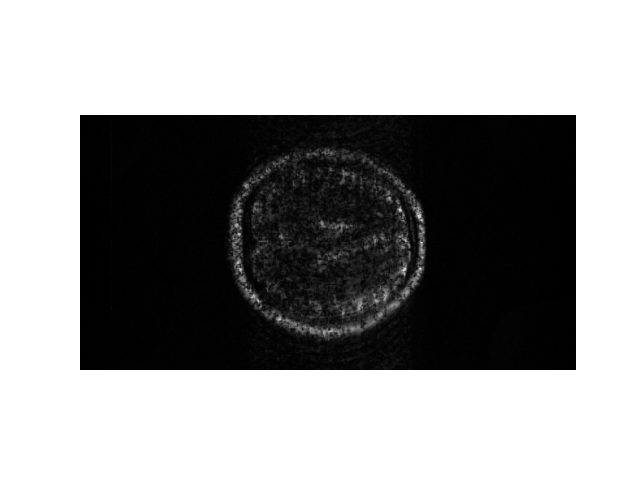
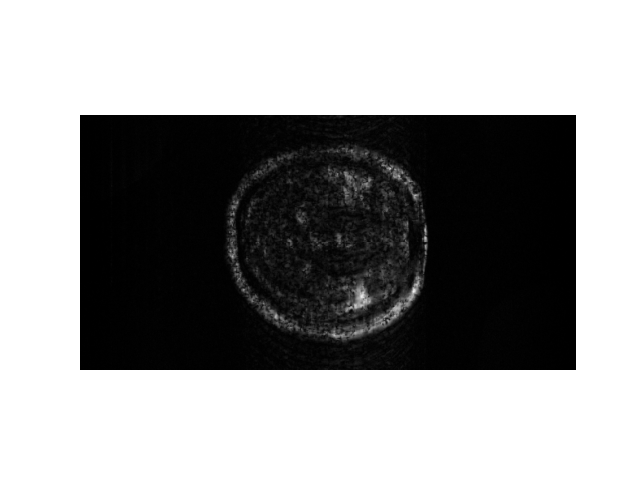
playing with reg. terms

Changed region(s): [[0.3438, 0.2812, 0.6875, 0.7188]]

diff --git a/my_CDLNet/sense.py b/my_CDLNet/sense.py
@@ -17,7 +17,7 @@ parser.add_argument("--kspace_path", type =str, help="Corresponding path where k
 
 # This will implement SENSE, which essentially performs conjugate gradient on the normal equations for MRI
 
-def eHe(x, mri_encoding, mri_decoding, lam = 0.1):
+def eHe(x, mri_encoding, mri_decoding, lam = 0.01):
     # Performs E^H E with lambda regularization
     return mri_decoding(mri_encoding(x)) + lam * x
 
